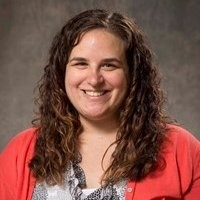
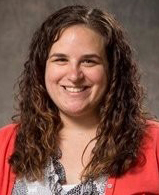
Changed image float and adjusted sizes of css elements

diff --git a/assets/style.css b/assets/style.css
@@ -13,6 +13,7 @@
   --dkpink: #ad878e;
 }
 
+/* Defines body styles, including a Google Font */
 body {
   margin: 0;
   padding: 0;
@@ -22,6 +23,7 @@ body {
   line-height: 1.5;
 }
 
+/* Puts 0 margins for headers and paragraphs */
 h1, h2, h3, h4, h5, h6 {
   margin: 0;
 }
@@ -30,6 +32,7 @@ p {
   margin: 0;
 }
 
+/* Defines header styles */
 header {
   display: flex;
   flex-direction: row;
@@ -54,6 +57,7 @@ header a:hover {
   color: var(--light);
 }
 
+/* Styles the navigation, including placement and hover properties, giving a gradient background that grows */
 nav {
   display: flex;
   flex-direction: row;
@@ -84,12 +88,13 @@ main {
   margin-bottom: 45px;
 }
 
+/* Sets style for banner, including image background positioning*/
 .banner {
   background: var(--dkblue);
   background-image: url("./images/header.png");
   background-size: cover;
   background-position: center;
-  min-height: 50vh;
+  min-height: 40vh;
   color: var(--light);
   padding: 2% 6%;
   display: flex;
@@ -114,7 +119,8 @@ main {
   display: inline;
 }
 
-.page-wrapper {
+/* Creates a container for the main content of the pain */
+.page-container {
   max-width: 85%;
   margin-left: auto;
   margin-right: auto;
@@ -144,11 +150,26 @@ main {
   flex: 0 0 75%;
 }
 
+.page-section img {
+  float: left;
+  border-style: solid;
+  border-width: 6px;
+  border-color: var(--gray);
+  margin-right: 20px;
+}
+
+.page-section img:hover {
+  border-radius: 6px;
+  border-style: solid;
+  border-color: var(--dkpink);
+}
+
 .page-section p {
   margin-bottom: 20px;
   color: var(--dkblue);
 }
 
+/* Styles the projects into a grid with border and image changing on hover. Project grid is set to have the top, featured project as the first child, to take up the full length of the grid */
 .project-container {
   display: grid;
   column-gap: 10px;
@@ -213,6 +234,7 @@ main {
   background-image: url("../assets/images/placeholder-5.png"); 
 }
 
+/* Styles the contact info section, including the background changing on hover */
 .contact contact-info {
   display: flex;
   flex-wrap: wrap;
@@ -242,6 +264,7 @@ main {
   background-size: 100% 100%;
 }
 
+/* Makes footer centered and small*/
 footer  {
   text-align: center;
   font-size: 12px;
@@ -250,38 +273,35 @@ footer  {
   margin-bottom: 10px;
 }
 
+/* Sets layouts to adjust as the screen size gets smaller */
 @media screen and (max-width: 980px) {
   header {
       justify-content: center;
       padding: 0 0 10px 0;
       text-align: center;
   }
-
   header h1 {
       width: 100%;
       padding: 5px;
       margin-bottom: 10px;
       font-size: 10vw;
   }
-
   header nav {
       justify-content: center;
   }
-
   .page-section > h2,
   .page-section > div {
       flex: 0 0 100%;
   }
-
   .page-section > h2 {
       border-right: none;
+      text-align: left;
+      font-size: 145%;
       border-bottom: 4px solid var(--pink);
       margin-bottom: 20px;
       padding-bottom: 10px;
-      text-align: left;
-      font-size: 145%;
+      
   }
-
   .hero-banner {
       flex-direction: column;
       justify-content: space-between;
@@ -290,7 +310,6 @@ footer  {
       align-items: center;
   }
 }
-/* sets layouts to adjust as the screen size gets smaller */
 @media screen and (max-width: 768px) {
   .grid-item,
   .grid-item:first-child {

diff --git a/index.html b/index.html
@@ -19,23 +19,34 @@
             <a href="#about">About Me</a>
             <a href="#work">My Work</a>
             <a href="#contact">Contact Me</a>
-            <a href="https://drive.google.com/file/d/1zYOgLGzuGmbYYUisxS-w00sbzYEB6j3x/view?usp=sharing" target="blank">Resume</a>
+            <a href="https://drive.google.com/file/d/1zYOgLGzuGmbYYUisxS-w00sbzYEB6j3x/view?usp=sharing"
+                target="blank">Resume</a>
         </nav>
     </header>
 
     <section class="banner">
         <div>
-            <img id="headshot" src="../assets/images/ferrett_headshot.jpg">
             <h2>Digital Media Specialist</h2>
         </div>
     </section>
 
-    <main class="page-wrapper">
+    <main class="page-container">
         <section class="page-section">
             <h2>About Me</h2>
             <div>
-                <p>This is my new portfolio.</p>
-                <p>This is all about me!</p>
+                <img src="../portfolio_ljf/assets/images/ferrett_headshot.jpg">
+                <p>Lorem ipsum dolor sit amet, consectetur adipiscing elit, sed do eiusmod tempor incididunt ut labore
+                    et dolore magna aliqua. Accumsan tortor posuere ac ut consequat semper viverra. Eu lobortis
+                    elementum nibh tellus molestie nunc non blandit. Mi proin sed libero enim sed faucibus turpis in eu.
+                    Sit amet facilisis magna etiam tempor orci eu lobortis elementum. A scelerisque purus semper eget
+                    duis at. Sed nisi lacus sed viverra tellus in hac habitasse platea. Diam in arcu cursus euismod quis
+                    viverra nibh. Sed risus ultricies tristique nulla.</p>
+                <p>Eget gravida cum sociis natoque penatibus et magnis dis. Sed ullamcorper morbi tincidunt ornare massa
+                    eget. Dignissim suspendisse in est ante in nibh mauris. Diam quam nulla porttitor massa id neque.
+                    Montes nascetur ridiculus mus mauris vitae ultricies. At risus viverra adipiscing at in. Egestas
+                    tellus rutrum tellus pellentesque. Id eu nisl nunc mi ipsum. Varius vel pharetra vel turpis nunc
+                    eget. Ridiculus mus mauris vitae ultricies leo integer malesuada nunc. </p>
+            </div>
         </section>
 
         <section class="page-section">
@@ -43,8 +54,8 @@
             <div class="project-container">
                 <a href="#" class="project" id="project1">
                     <div>
-                        <h3>Project 1</h3>
-                        <span>CSS, JS</span>
+                    <h3>Project 1</h3>
+                    <span>CSS, JS</span>
                     </div>
                 </a>
                 <a href="#" class="project" id="project2">
